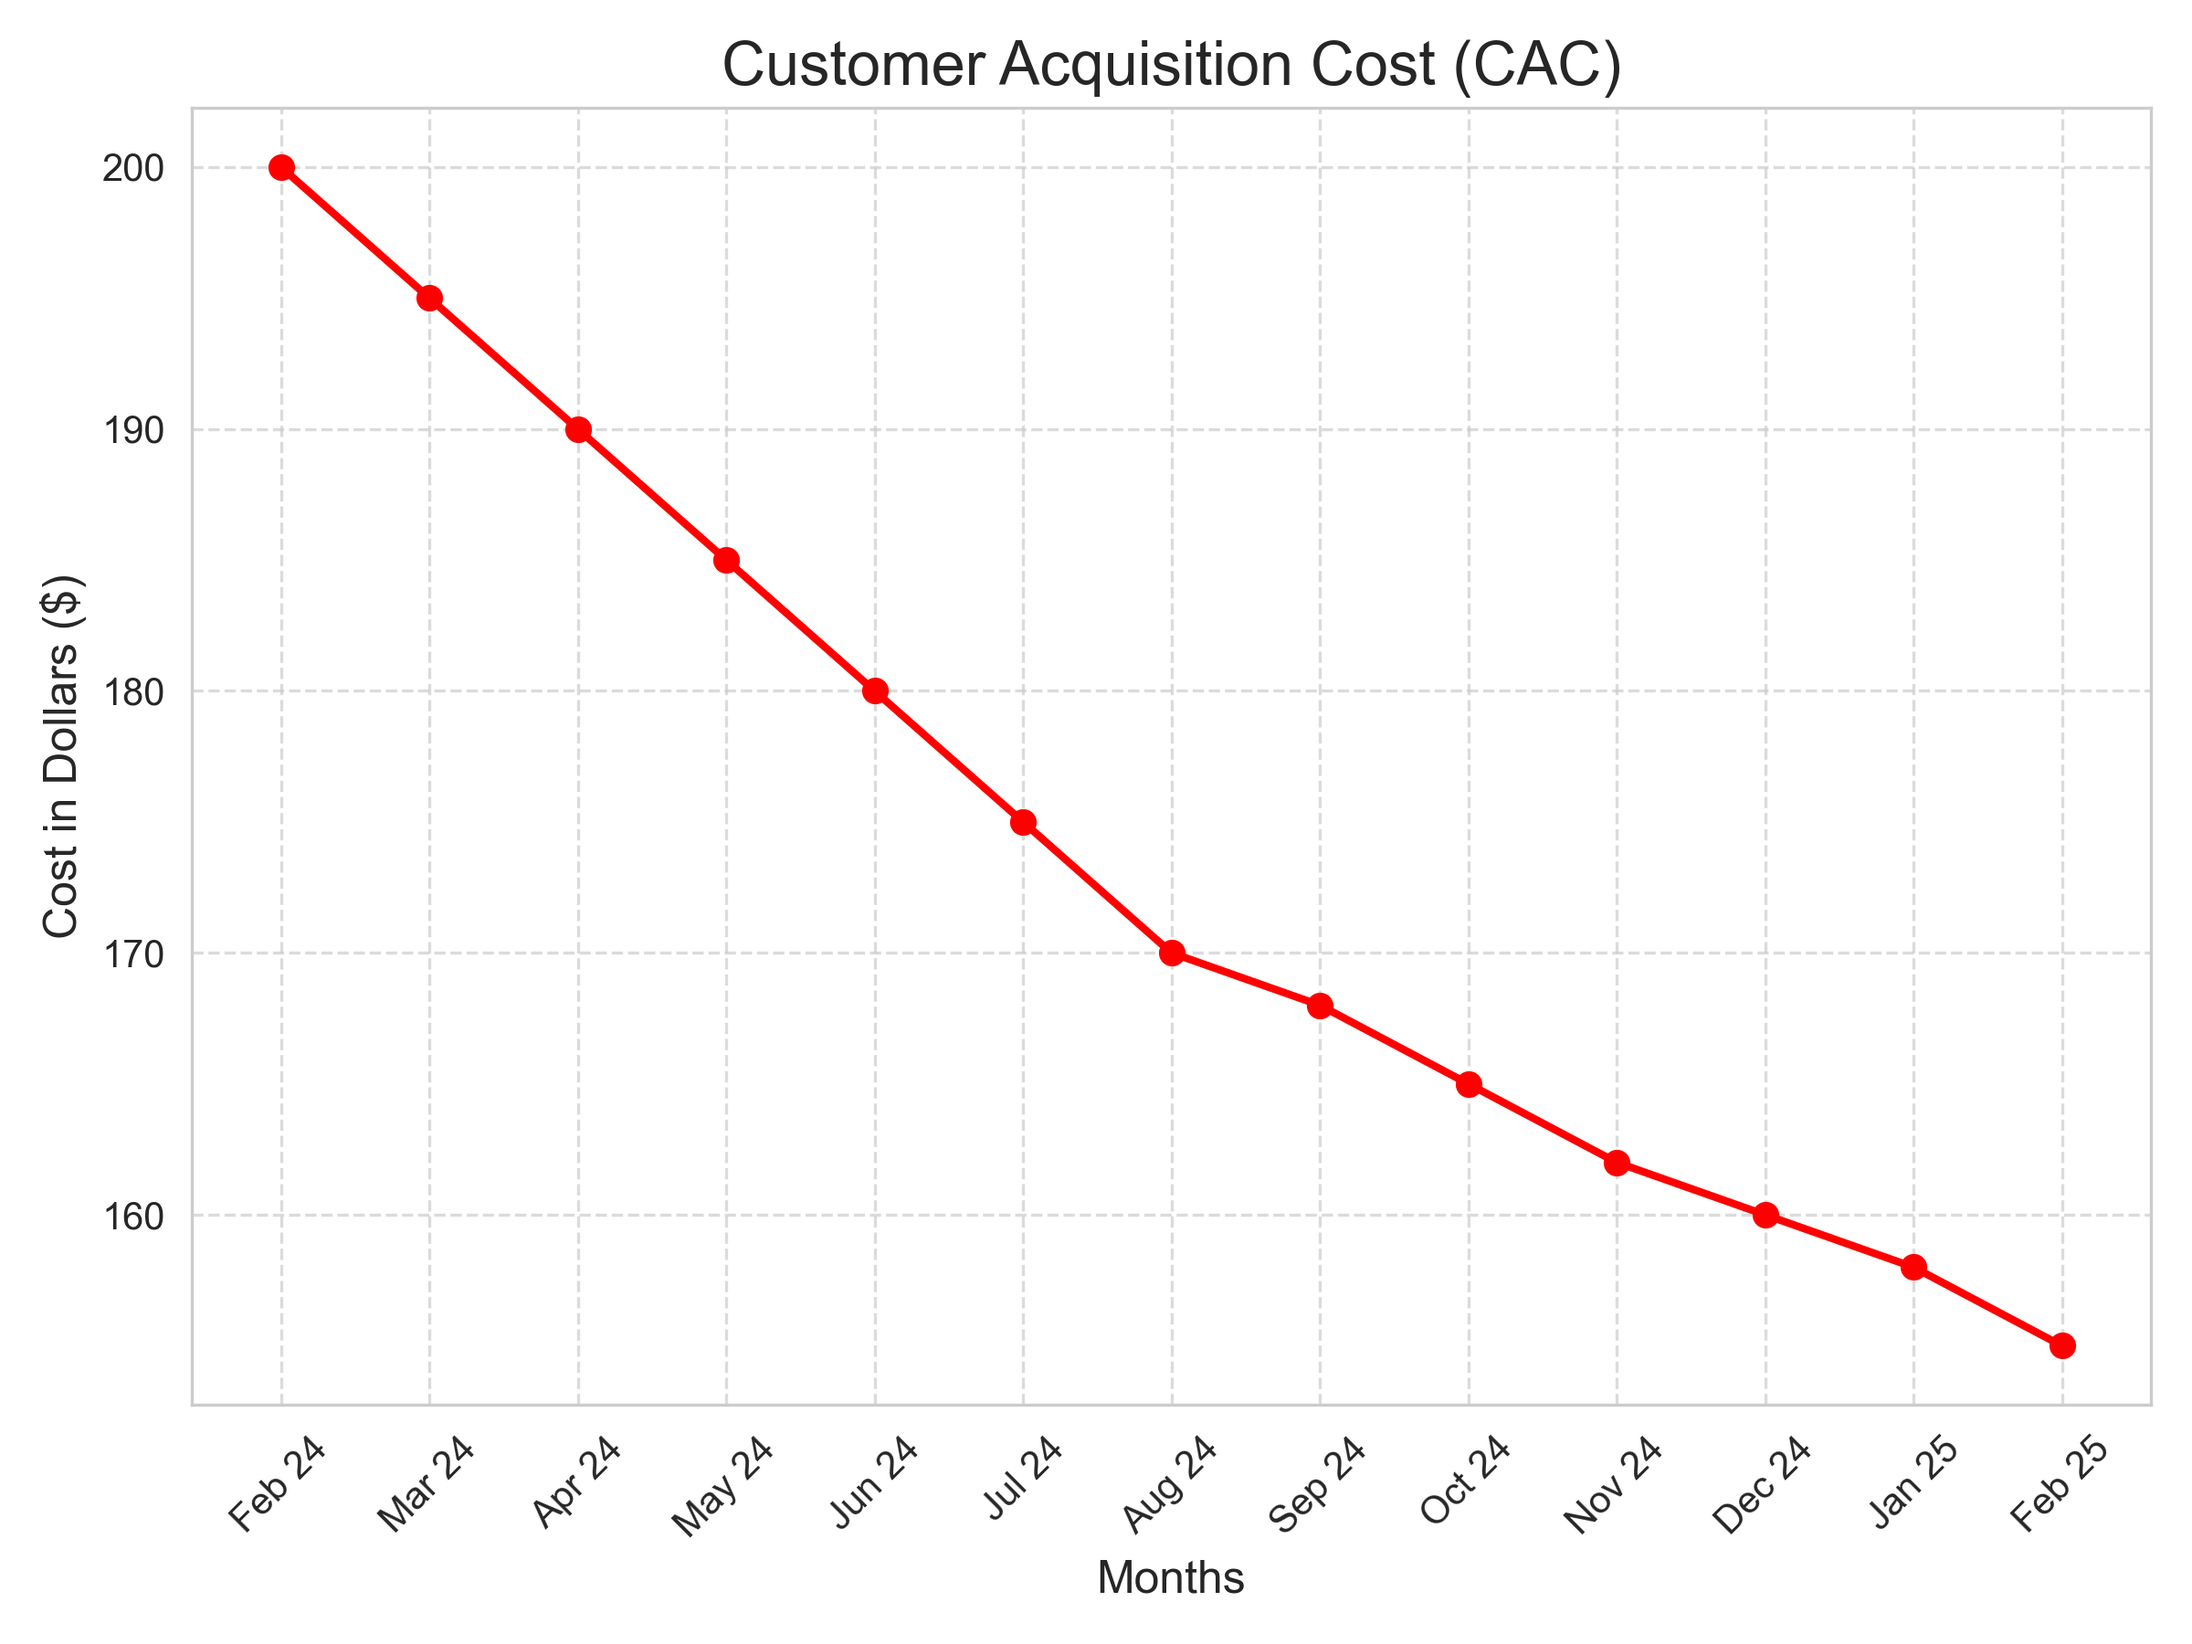
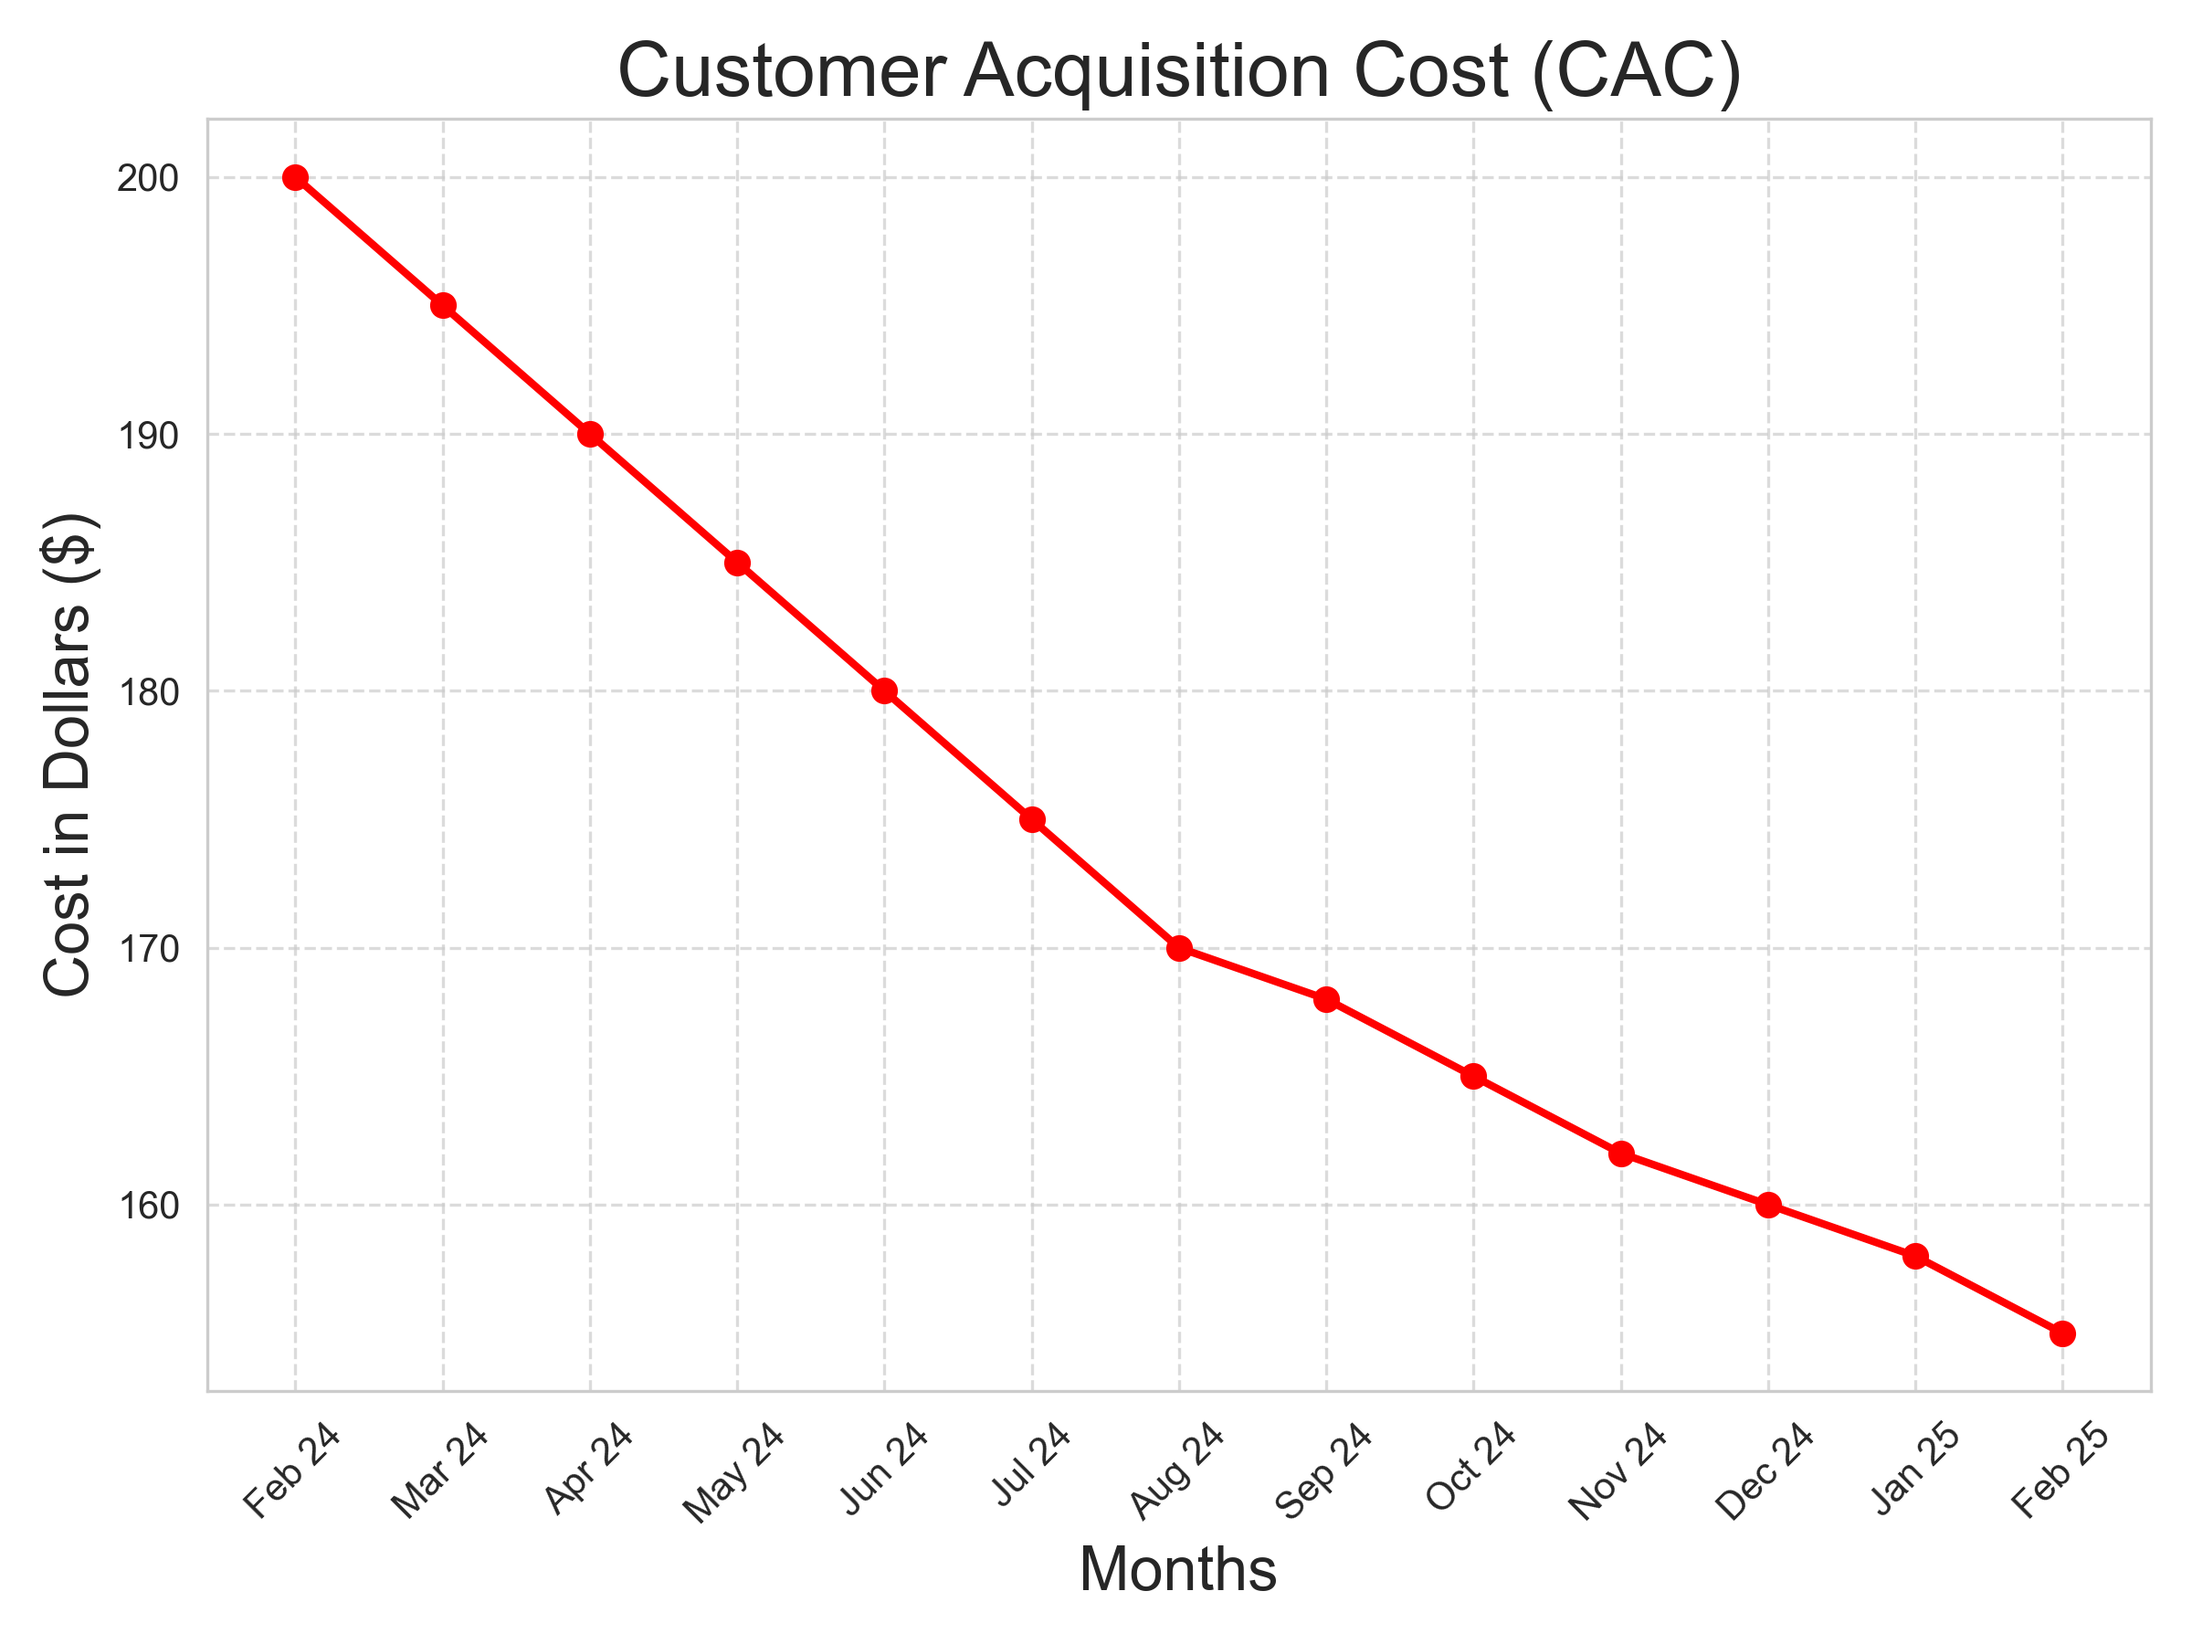
fixed images

diff --git a/assignment5.py b/assignment5.py
@@ -12,9 +12,9 @@ wau = [500, 520, 550, 580, 600, 620, 650, 680, 700, 720, 730, 750, 780]  # Sampl
 
 plt.figure(figsize=(8, 6))
 plt.plot(months, wau, marker='o', color='b', linewidth=2)
-plt.title('Weekly Active Users (WAU)', fontsize=16)
+plt.title('Weekly Active Users (WAU)', fontsize=20)
 plt.xlabel('Months', fontsize=12)
-plt.ylabel('Number of Active Users', fontsize=12)
+plt.ylabel('Number of Active Users', fontsize=20)
 plt.xticks(rotation=45)
 plt.grid(True, linestyle='--', alpha=0.7)
 plt.tight_layout()
@@ -27,9 +27,9 @@ completion_rate = [50, 52, 55, 58, 60, 62, 65, 68, 70, 72, 73, 75, 78]  # Sample
 
 plt.figure(figsize=(8, 6))
 plt.plot(months, completion_rate, marker='o', color='g', linewidth=2)
-plt.title('Onboarding Completion Rate', fontsize=16)
-plt.xlabel('Time (Months)', fontsize=12)
-plt.ylabel('Completion Rate (%)', fontsize=12)
+plt.title('Onboarding Completion Rate', fontsize=20)
+plt.xlabel('Time (Months)', fontsize=20)
+plt.ylabel('Completion Rate (%)', fontsize=20)
 plt.ylim(0, 100)
 plt.xticks(rotation=45)
 plt.grid(True, linestyle='--', alpha=0.7)
@@ -43,9 +43,9 @@ users = [600, 300, 150]  # Sample user counts after 1 year
 
 plt.figure(figsize=(8, 6))
 plt.bar(time_buckets, users, color='orange', edgecolor='black')
-plt.title('Time to Onboard', fontsize=16)
-plt.xlabel('Time Buckets', fontsize=12)
-plt.ylabel('Number of Users', fontsize=12)
+plt.title('Time to Onboard', fontsize=20)
+plt.xlabel('Time Buckets', fontsize=16)
+plt.ylabel('Number of Users', fontsize=16)
 plt.tight_layout()
 plt.savefig('time_to_onboard_chart.png', dpi=300)
 plt.close()
@@ -56,9 +56,9 @@ funnel_data = [1000, 850, 750, 700]  # Sample user counts at each step
 
 plt.figure(figsize=(8, 6))
 plt.bar(steps, funnel_data, color='purple', edgecolor='black')
-plt.title('Funnel Analysis - Onboarding Steps', fontsize=16)
-plt.xlabel('Onboarding Steps', fontsize=12)
-plt.ylabel('Number of Users', fontsize=12)
+plt.title('Funnel Analysis - Onboarding Steps', fontsize=20)
+plt.xlabel('Onboarding Steps', fontsize=16)
+plt.ylabel('Number of Users', fontsize=16)
 plt.tight_layout()
 plt.savefig('funnel_analysis_chart.png', dpi=300)
 plt.close()
@@ -68,9 +68,9 @@ cac = [200, 195, 190, 185, 180, 175, 170, 168, 165, 162, 160, 158, 155]  # Sampl
 
 plt.figure(figsize=(8, 6))
 plt.plot(months, cac, marker='o', color='r', linewidth=2)
-plt.title('Customer Acquisition Cost (CAC)', fontsize=16)
-plt.xlabel('Months', fontsize=12)
-plt.ylabel('Cost in Dollars ($)', fontsize=12)
+plt.title('Customer Acquisition Cost (CAC)', fontsize=20)
+plt.xlabel('Months', fontsize=16)
+plt.ylabel('Cost in Dollars ($)', fontsize=16)
 plt.xticks(rotation=45)
 plt.grid(True, linestyle='--', alpha=0.7)
 plt.tight_layout()
@@ -83,9 +83,9 @@ nps = [30, 35, 40, 45, 50]  # Sample scores
 
 plt.figure(figsize=(8, 6))
 plt.plot(quarters, nps, marker='o', color='teal', linewidth=2)
-plt.title('Net Promoter Score (NPS)', fontsize=16)
-plt.xlabel('Time (Quarters)', fontsize=12)
-plt.ylabel('NPS Score', fontsize=12)
+plt.title('Net Promoter Score (NPS)', fontsize=20)
+plt.xlabel('Time (Quarters)', fontsize=16)
+plt.ylabel('NPS Score', fontsize=16)
 plt.ylim(-100, 100)
 plt.grid(True, linestyle='--', alpha=0.7)
 plt.tight_layout()
